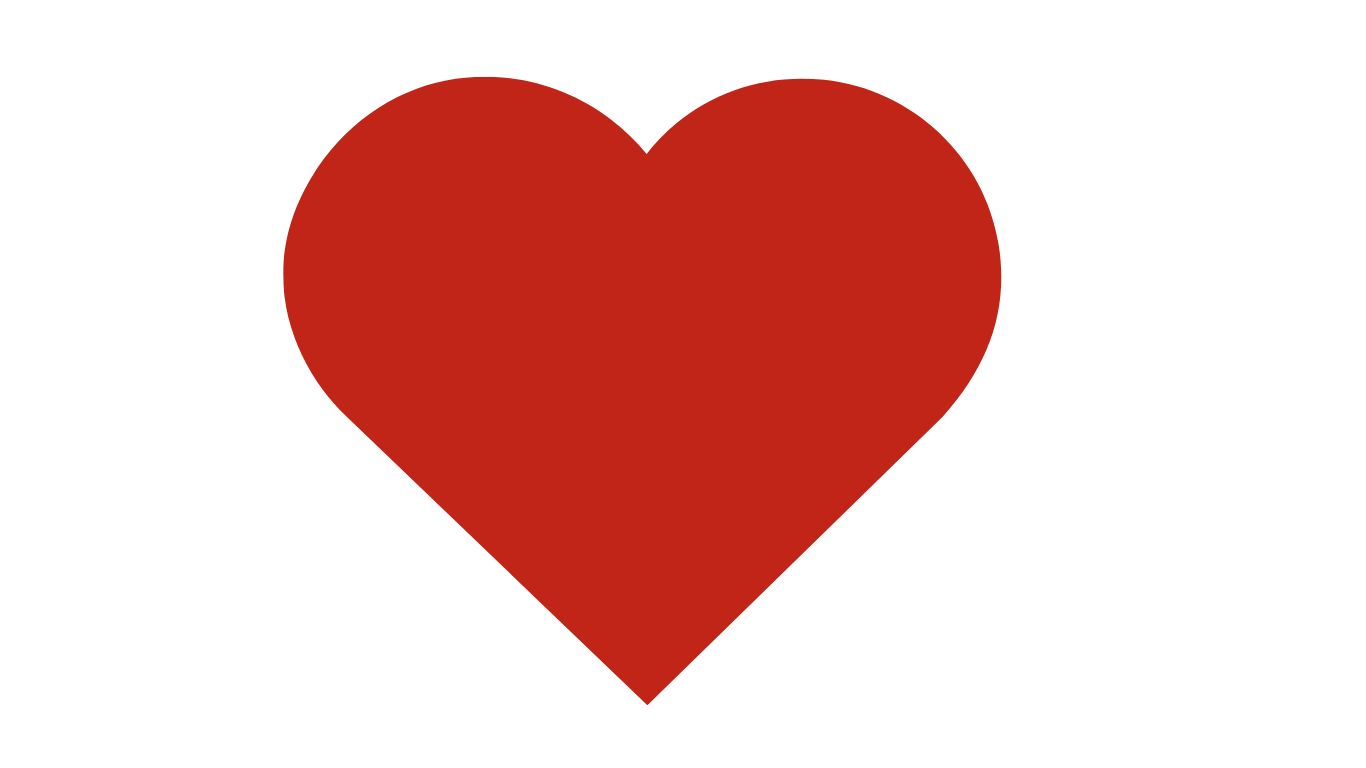
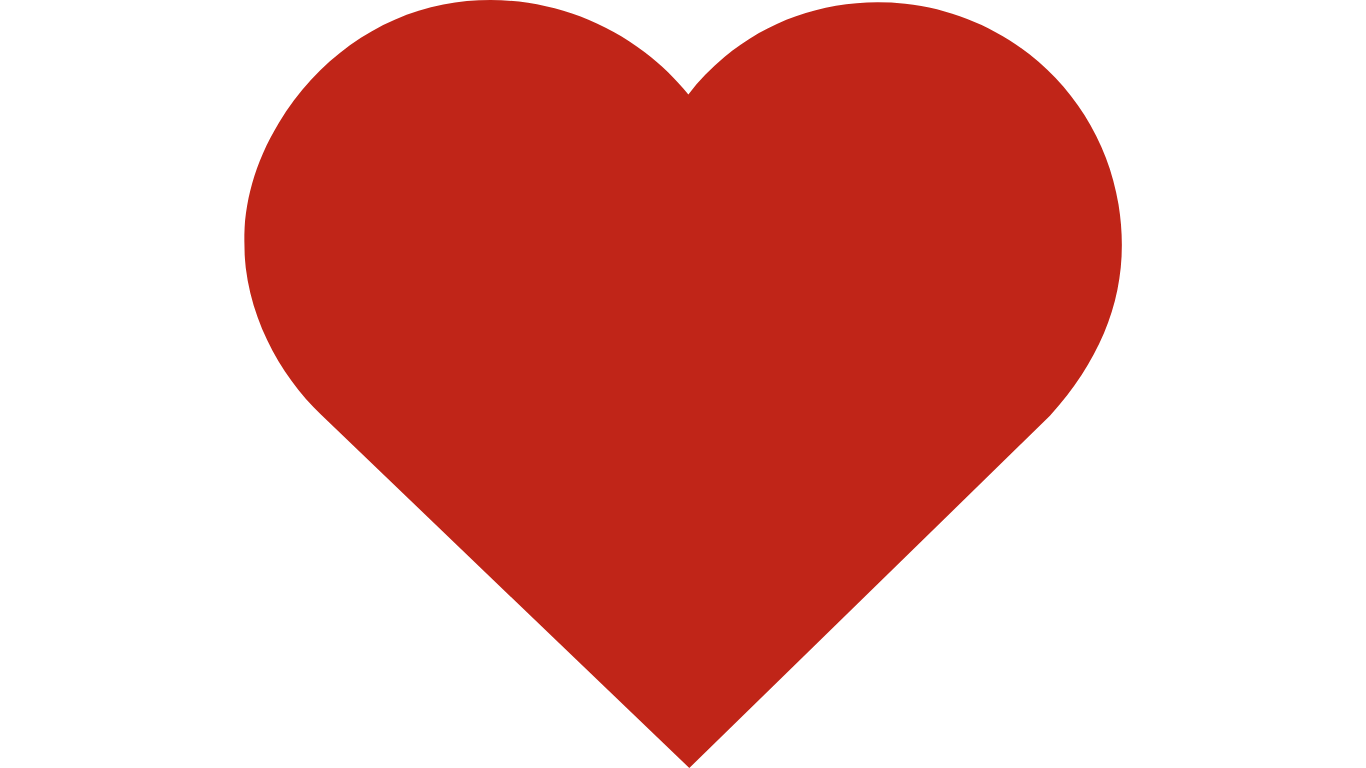
Botao de quantidade
botão de quantidade e mudança de imagem de coração

Changed region(s): [[0.1537, 0.0, 0.8302, 1.0]]

diff --git a/teste cap_um/produto.css b/teste cap_um/produto.css
@@ -179,19 +179,13 @@ h3 {
     font-family: "Open Sans", sans-serif;
 }
 
-.quantidade button {
-    background-color: transparent;
-    border: none;
-    cursor: pointer;
-    font-size: 20px;
-    color: #562885;
-    padding: 10px;
-}
+
 
 .quantidade input {
-    width: 20px;
-    height: 30px;
-    text-align: center;
+    width: 56px;
+    height: 34px;
+    margin-left: 25px;
+    margin-right: 10px;
     border: none;
     font-size: 16px;
     color: #767071;
@@ -244,4 +238,8 @@ button.ficha {
     cursor: pointer;
     margin-left: 50%;
     
+}
+
+.hide {
+    display: none;
 }

diff --git a/teste cap_um/produto.html b/teste cap_um/produto.html
@@ -52,9 +52,8 @@
         <h3 id="valor1">R$ 45,00</h3>
 
         <div class="quantidade" id="quantidade1">
-            <button id="diminuirQtd1">-</button>
-            <input type="text" id="Qtd1" value="1" min="1" max="10">
-            <button id="aumentarQtd1">+</button>
+            <input type="number" id="Qtd1" value="1" min="1" max="10">
+
         </div>
 
         <a href="carrinho.html">
